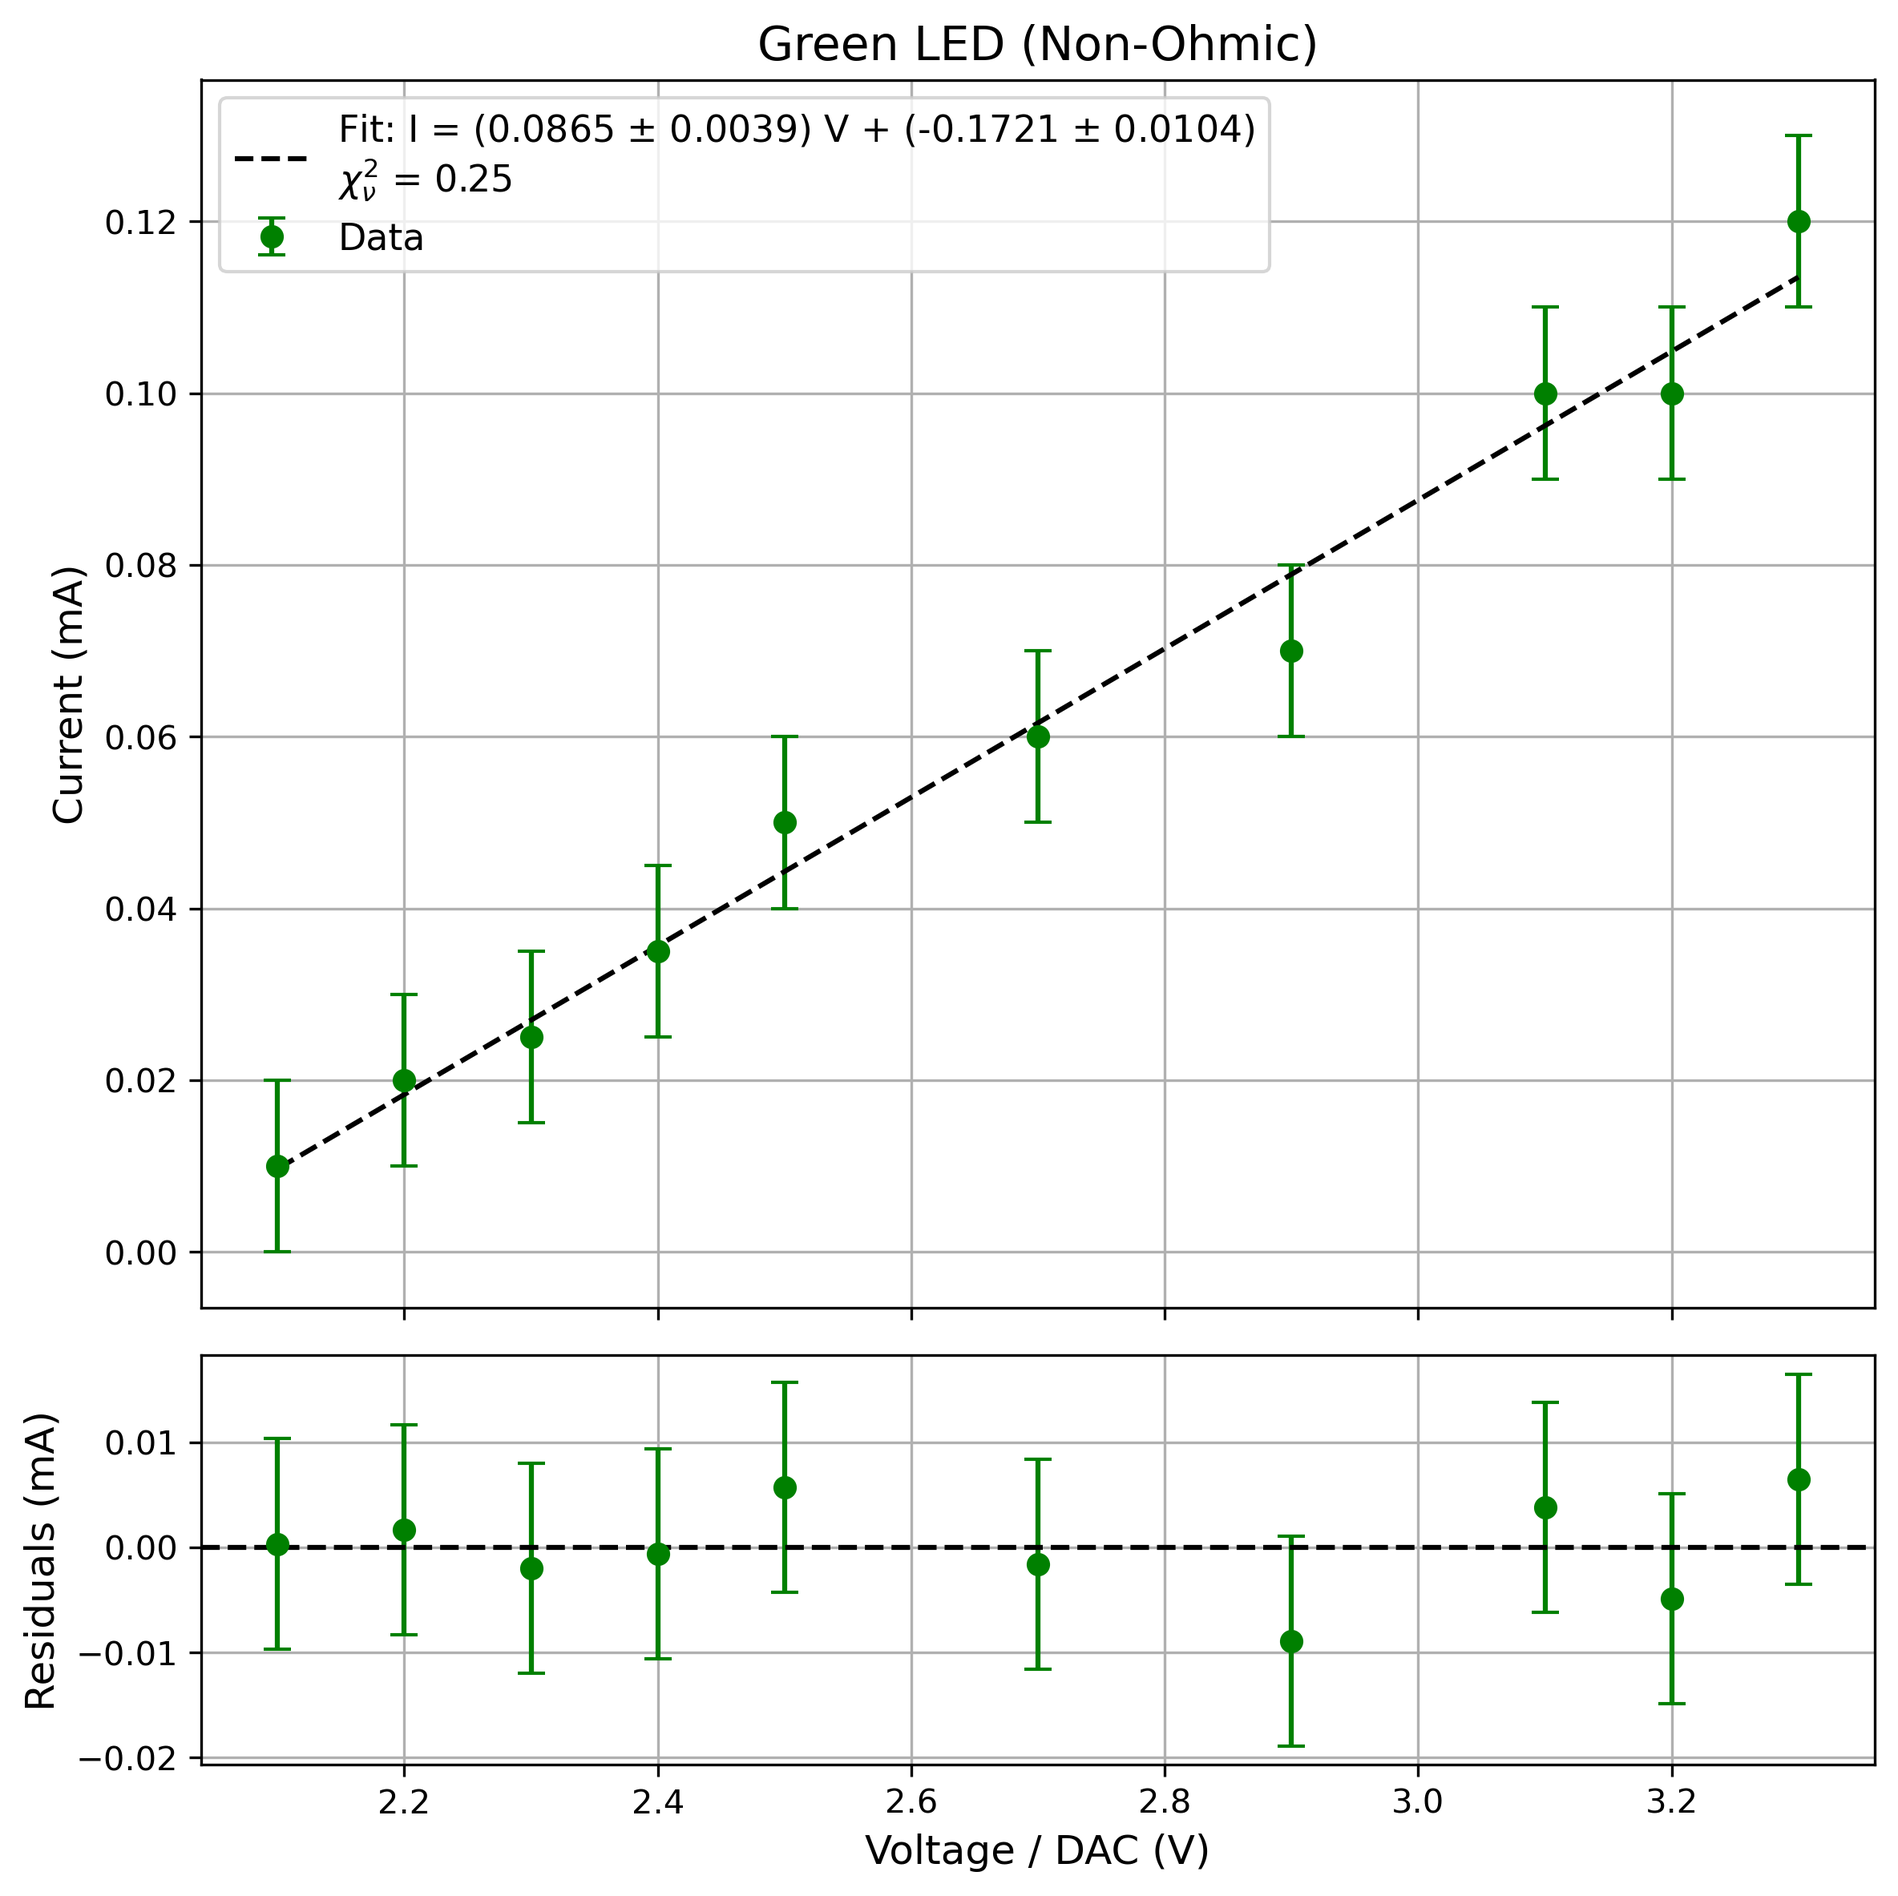
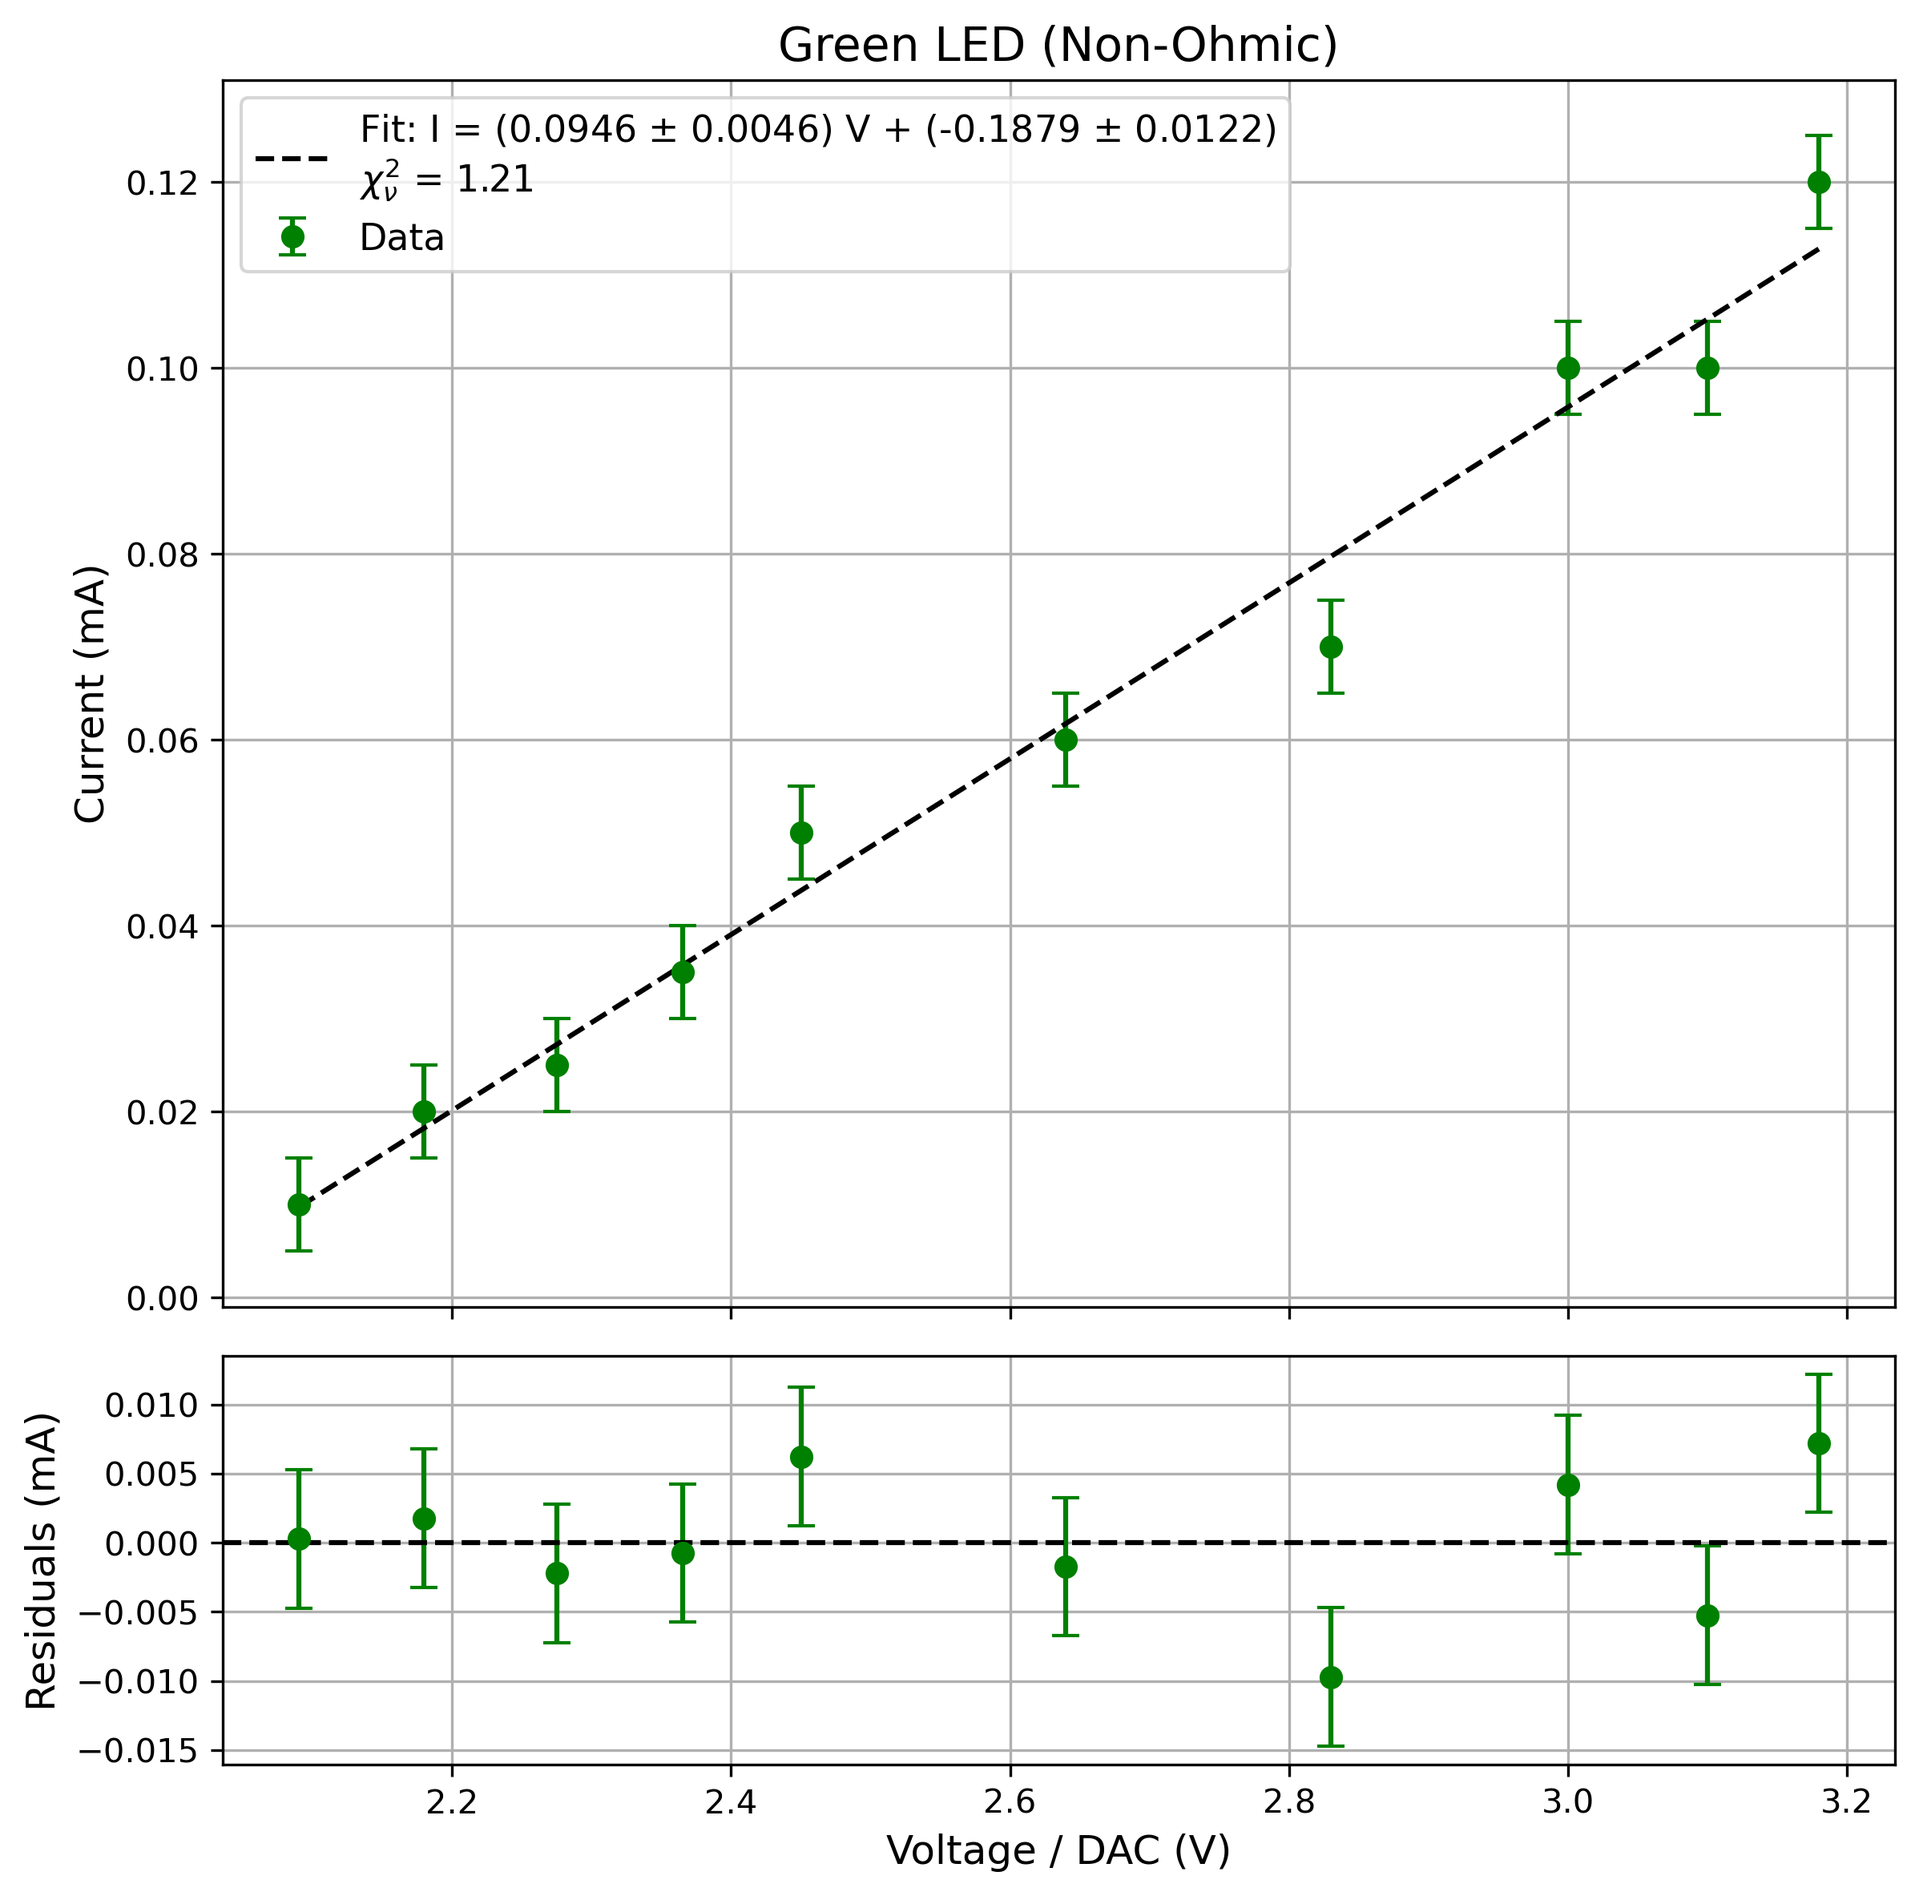
part 1 code

diff --git a/lab8/processing.py b/lab8/processing.py
@@ -2,7 +2,7 @@ import os,numpy as np,matplotlib.pyplot as plt
 from scipy.stats import linregress
 
 os.makedirs('figures',exist_ok=True)
-dy=0.01
+dy=0.005
 
 def plot_ohm(v,i,dy,t,fn,c):
     
@@ -33,14 +33,28 @@ def plot_ohm(v,i,dy,t,fn,c):
     plt.savefig(fn,dpi=300,bbox_inches='tight')
     plt.close()
 
-vr=np.array([0.1,0.4,0.7,1.0,1.3,1.6,1.9,2.2,2.5,2.9,3.3])
 ir=np.array([0.01,0.04,0.08,0.10,0.13,0.16,0.195,0.22,0.26,0.29,0.33])
+vr=np.array([0.1,0.4,0.7,1.0,1.3,1.6,1.9,2.2,2.5,2.9,3.3])-ir*1
 plot_ohm(vr,ir,dy,'Resistor (Ohmic)','figures/resistor_fit.png','blue')
 
-vg=np.array([2.1,2.2,2.3,2.4,2.5,2.7,2.9,3.1,3.2,3.3])
+
 ig=np.array([0.01,0.02,0.025,0.035,0.05,0.06,0.07,0.10,0.10,0.12])
+vg=np.array([2.1,2.2,2.3,2.4,2.5,2.7,2.9,3.1,3.2,3.3])-ig*1
 plot_ohm(vg,ig,dy,'Green LED (Non-Ohmic)','figures/green_led_fit.png','green')
 
-vred=np.array([1.6,1.7,1.8,2.0,2.2,2.4,2.5,2.8,3.0,3.2,3.3])
+
 ired=np.array([0.005,0.01,0.02,0.03,0.05,0.07,0.08,0.11,0.13,0.15,0.16])
+vred=np.array([1.6,1.7,1.8,2.0,2.2,2.4,2.5,2.8,3.0,3.2,3.3])-ired*1
 plot_ohm(vred,ired,dy,'Red LED (Non-Ohmic)','figures/red_led_fit.png','red')
+
+m_r, _, _, _, dm_r = linregress(vr, ir)
+R_r, dR_r = 1 / m_r, dm_r / (m_r**2)
+print(f"Resistor: R = {R_r:.2f} Ω ± {dR_r:.2f} Ω")
+
+m_g, _, _, _, dm_g = linregress(vg, ig)
+R_g, dR_g = 1 / m_g, dm_g / (m_g**2)
+print(f"Green LED: R = {R_g:.2f} Ω ± {dR_g:.2f} Ω")
+
+m_red, _, _, _, dm_red = linregress(vred, ired)
+R_red, dR_red = 1 / m_red, dm_red / (m_red**2)
+print(f"Red LED: R = {R_red:.2f} Ω ± {dR_red:.2f} Ω")

diff --git a/lab8/part1.py b/lab8/part1.py
@@ -1,0 +1,16 @@
+import pandas as pd
+
+for file in ['1a-arjun.csv', '1a-ines.csv']:
+    df = pd.read_csv(file)
+    active = df[df['Voltage (V)'] > 1.5]
+    H = active['Voltage (V).1'].mean() / active['Voltage (V)'].mean()
+    print(f"{file} transfer ratio: {H:.4f}")
+
+R = 1
+for f in ['1b-arjun.csv', '1b-ines.csv']:
+    df = pd.read_csv(f)
+    on_mv = df[df['Voltage (V)'] > 1.5]['Voltage (mV)'].mean()
+    off_mv = df[df['Voltage (V)'] < 0.5]['Voltage (mV)'].mean()
+    corrected_v = (on_mv - off_mv) / 1000 
+    current_amps = corrected_v / R
+    print(f"{f} current: {current_amps * 1000:.6f} mA")
